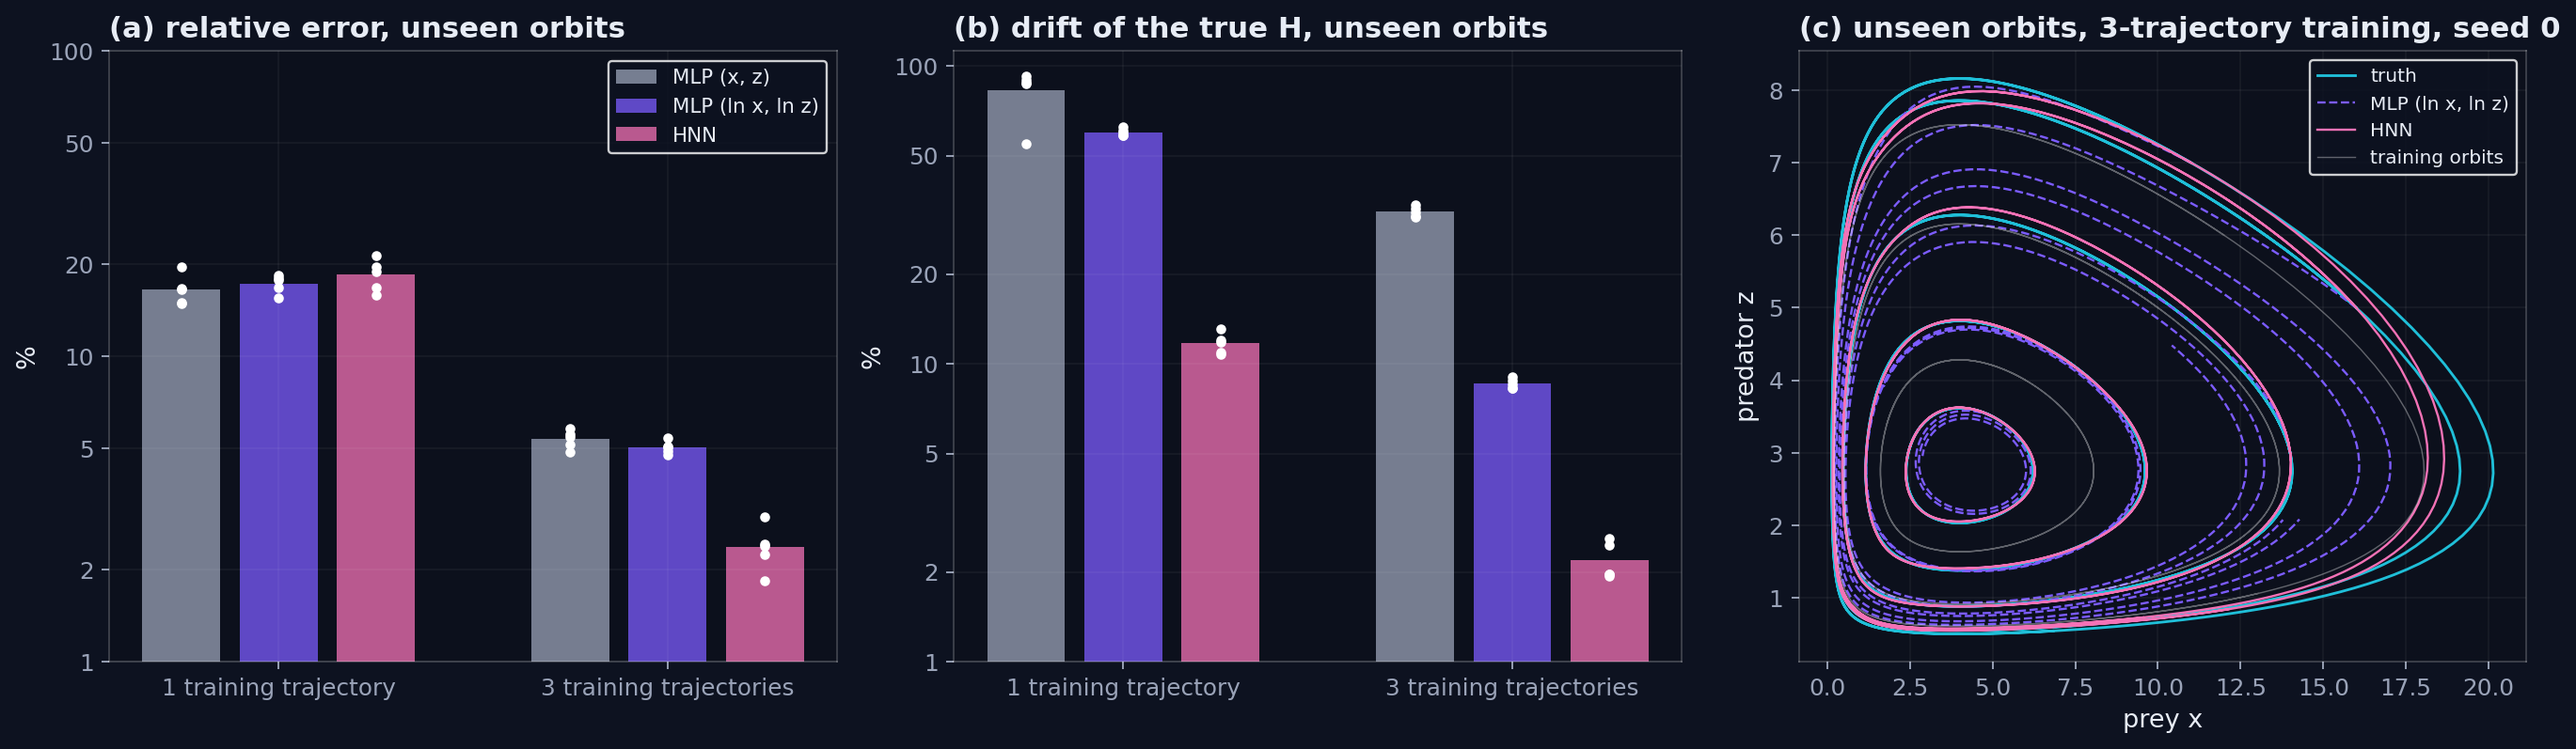
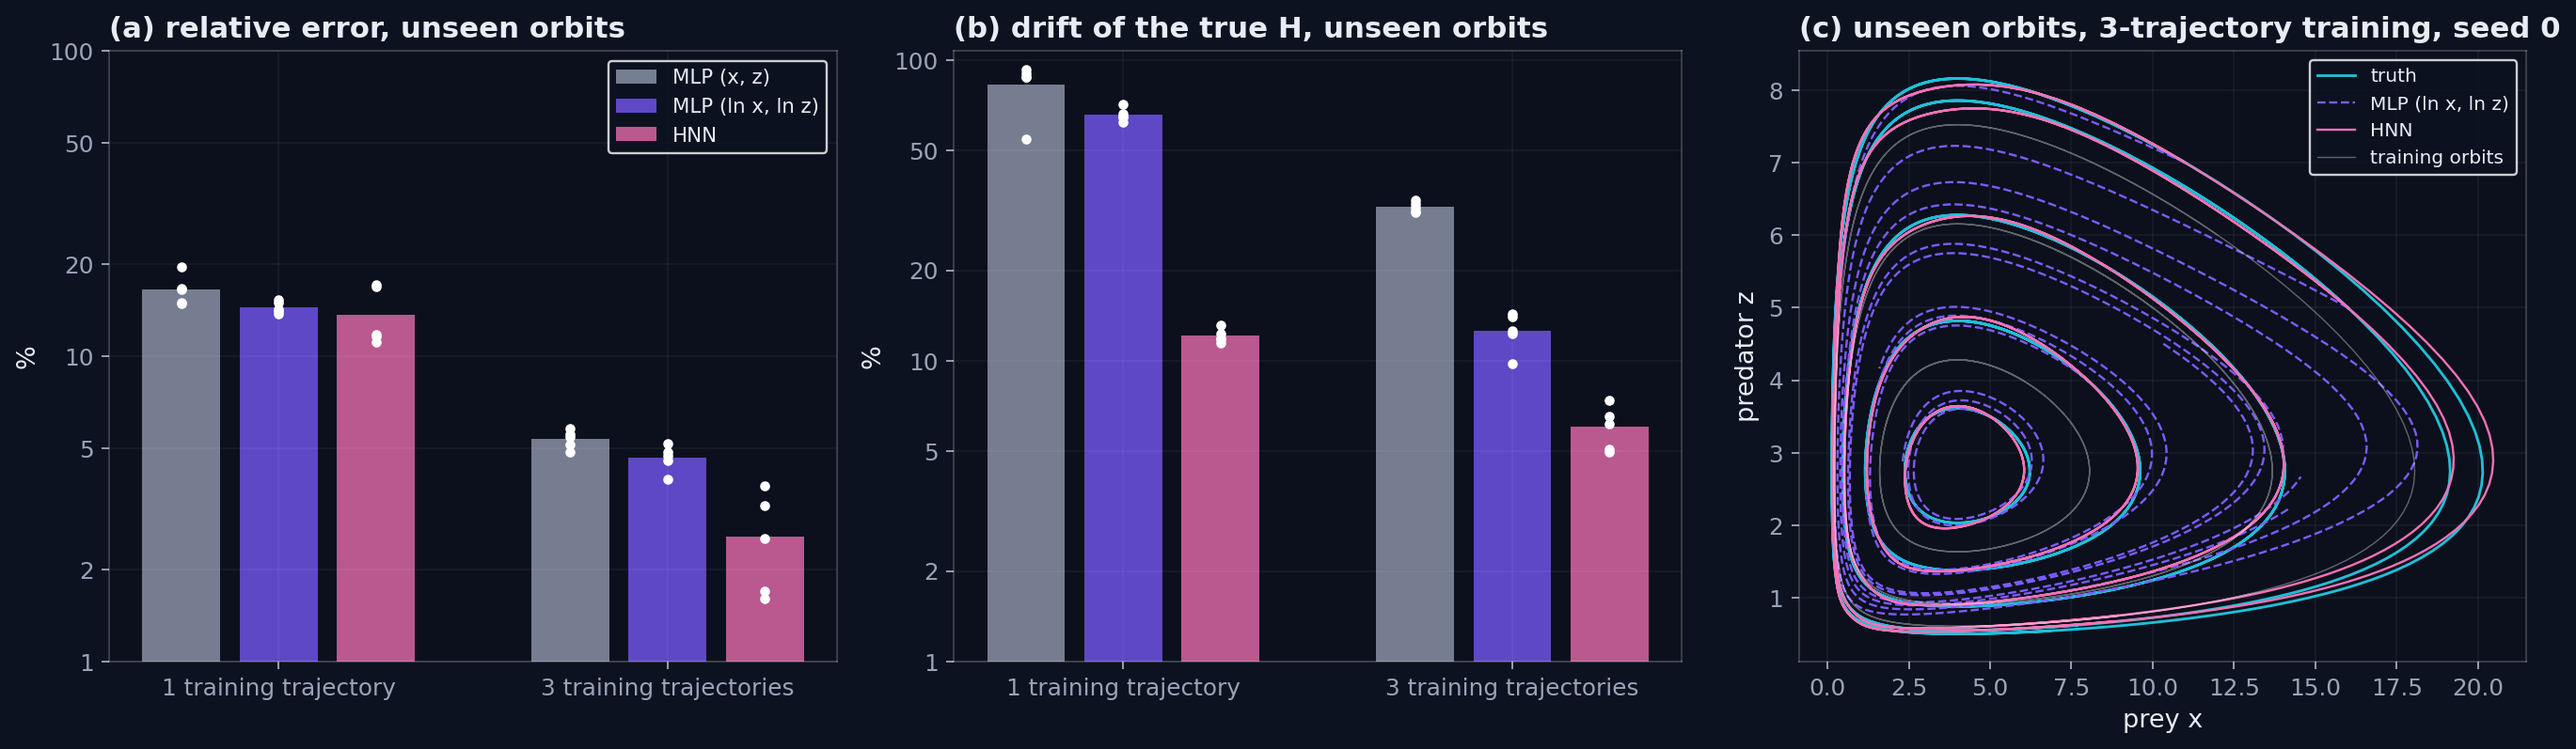
README 8.2: the main ablation uses the exact likelihood (loss in (x, z)) for all three models; HNN 2.57% / 6.03% vs log-coordinate MLP 4.65% / 12.6% on unseen orbits, every seed better (Mann-Whitney p = 0.008). The 2x2 (model x loss coordinates) shows the lower H drift on the training orbit comes mo

diff --git a/scripts/ablation_ic.py b/scripts/ablation_ic.py
@@ -65,7 +65,7 @@ Usage:
     python -m scripts.ablation_ic --model hnn --regime multi --seed 0
     python -m scripts.ablation_ic --model hnn --regime multi --seed 0 --y0-prior
     python -m scripts.ablation_ic --summarize        # aggregate all runs
-    python -m scripts.ablation_ic --figure           # figures/hnn_ablation_ic.png
+    python -m scripts.ablation_ic --figure           # figures/hnn_ablation_ic.png, loss in (x, z)
 """
 
 from __future__ import annotations
@@ -265,18 +265,33 @@ def summarize(out: str = "data/ablation_ic_summary.json", src: Path = OUT) -> No
     print(f"[ok] {out}")
 
 
-def figure(summary_path: str = "data/ablation_ic_summary.json",
-           out: str = "figures/hnn_ablation_ic.png", seed: int = 0) -> None:
+def _run_key(model: str, regime: str, loss: str) -> str:
+    """Summary key of a model trained with its residuals in ``loss`` coordinates."""
+    key = f"{model}|{regime}"
+    return key if loss == default_loss(model) else f"{key}|{loss}-loss"
+
+
+def _checkpoint(model: str, regime: str, loss: str, seed: int) -> Path:
+    if loss == default_loss(model):
+        return OUT / f"{model}_{regime}_s{seed}.pt"
+    return OUT_LOSS / f"{model}_{regime}_{loss}loss_s{seed}.pt"
+
+
+def figure(loss: str = "xz", out: str = "figures/hnn_ablation_ic.png", seed: int = 0) -> None:
     """(a) relative error and (b) H drift on the held-out orbits, every seed
     as a dot over the mean bar; (c) the held-out orbits predicted by the HNN
-    and by the log-coordinate MLP trained on three trajectories (one seed)."""
+    and by the log-coordinate MLP trained on three trajectories (one seed).
+    Every model with its residuals in ``loss`` coordinates: ``xz`` (default)
+    is the exact likelihood of the simulated noise."""
     import matplotlib.pyplot as plt
 
     from src.plots import _save, _style
 
     _style()
 
-    S = json.load(open(summary_path))["results"]
+    S = json.load(open("data/ablation_ic_summary.json"))["results"]
+    if Path("data/ablation_ic_loss_summary.json").exists():
+        S.update(json.load(open("data/ablation_ic_loss_summary.json"))["results"])
     models = [("mlp", "MLP (x, z)"), ("mlp_log", "MLP (ln x, ln z)"), ("hnn", "HNN")]
     colors = {"mlp": "#9aa3b8", "mlp_log": "#7c5cff", "hnn": "#f472b6"}
     fig, axes = plt.subplots(1, 3, figsize=(16, 4.8))
@@ -284,7 +299,7 @@ def figure(summary_path: str = "data/ablation_ic_summary.json",
                               (axes[1], "test_h_drift", "(b) drift of the true H, unseen orbits")]:
         for gi, regime in enumerate(["single", "multi"]):
             for mi, (m, label) in enumerate(models):
-                a = S[f"{m}|{regime}"][metric]
+                a = S[_run_key(m, regime, loss)][metric]
                 x = gi * 4 + mi
                 ax.bar(x, 100 * a["mean"], color=colors[m], alpha=0.75,
                        label=label if gi == 0 else None)
@@ -308,7 +323,7 @@ def figure(summary_path: str = "data/ablation_ic_summary.json",
                 label="truth" if k == 0 else None)
     for m, style in [("mlp_log", "--"), ("hnn", "-")]:
         func = HNN(2, 96, 3) if m == "hnn" else ODEFunc(2, 96, 3)
-        func.load_state_dict(torch.load(OUT / f"{m}_multi_s{seed}.pt"))
+        func.load_state_dict(torch.load(_checkpoint(m, "multi", loss, seed)))
         func.eval()
         for k, ic in enumerate(TEST_ICS):
             u = integrate(func, torch.tensor(np.log(ic), dtype=torch.float32), tt).detach().numpy()
@@ -348,7 +363,7 @@ if __name__ == "__main__":
             src, name = (OUT_PRIOR, "prior") if a.y0_prior else (OUT, None)
         summarize(f"data/ablation_ic_{name}_summary.json" if name else "data/ablation_ic_summary.json", src)
     elif a.figure:
-        figure()
+        figure(a.loss or "xz")
     else:
         for s in a.seed:
             train_one(a.model, a.regime, s, a.epochs, a.y0_prior, a.loss)

diff --git a/README.md b/README.md
@@ -5,7 +5,7 @@
 [![Portfolio page](https://img.shields.io/badge/Portfolio-page-7C3AED?style=flat-square)](https://crozol.github.io/projects/02-neural-odes.html)
 [![Live demo on Hugging Face Spaces](https://img.shields.io/badge/%F0%9F%A4%97%20Live%20demo-Hugging%20Face%20Space-FFD21E?style=flat-square)](https://huggingface.co/spaces/crozol/neural-odes-hnn-demo)
 
-**TL;DR** — Learning the right-hand side of pendulum and Lotka-Volterra dynamics from short noisy trajectories with a small MLP integrated by `torchdiffeq.odeint`. Relative extrapolation errors past the training window (mean ± std over 5 seeds) are **8.3 ± 2.4 %** (pendulum) and **0.96 ± 0.57 %** (Lotka-Volterra) for the unconstrained baseline; for Lotka-Volterra, a Hamiltonian Neural Network helps once the training data cover more than one orbit: trained on three trajectories and scored on five unseen ones, it reaches **2.4 % ± 0.4 %** relative error and **2.2 %** drift in the conserved `H`, against **5.0 %** and **8.6 %** for the same MLP in the same log-coordinates (5 seeds) — the control that removes the coordinate confounder of the naive comparison — with the HNN better on both metrics in 5 of 5 seeds (sign test `p = 1/32 ≈ 0.03`). Trained on a single trajectory, no model generalises to new orbits (17–18 %), and the HNN's lower `H` drift on that orbit comes mostly from the change to log-coordinates. Stack: PyTorch · torchdiffeq · NumPy.
+**TL;DR** — Learning the right-hand side of pendulum and Lotka-Volterra dynamics from short noisy trajectories with a small MLP integrated by `torchdiffeq.odeint`. Relative extrapolation errors past the training window (mean ± std over 5 seeds) are **8.3 ± 2.4 %** (pendulum) and **0.96 ± 0.57 %** (Lotka-Volterra) for the unconstrained baseline; for Lotka-Volterra, a Hamiltonian Neural Network helps once the training data cover more than one orbit: trained on three trajectories, with the loss measured where the noise is added so that it is the exact likelihood, and scored on five unseen orbits, it reaches **2.6 % ± 0.9 %** relative error and **6.0 %** drift in the conserved `H`, against **4.7 %** and **12.6 %** for the same MLP in the same log-coordinates (5 seeds), with every HNN seed better than every MLP seed on both metrics (Mann-Whitney, two-sided `p = 0.008`). Trained on a single trajectory, no model generalises to new orbits (14–17 %). On that orbit the log-coordinates make the fit track it, but the lower `H` drift comes mostly from measuring the loss in log-coordinates, which over-weights the bottom of the orbit where `H` is most sensitive, not from the Hamiltonian structure. Stack: PyTorch · torchdiffeq · NumPy.
 
 A numerical experiment: take two textbook ODE systems whose ground-truth
 vector field is known exactly, observe a short noisy trajectory of each, and
@@ -499,10 +499,9 @@ learned the vector field or one closed curve.
 `scripts/ablation_ic.py` addresses all three. It trains three models with the
 same width, depth, schedule and optimiser —
 
-- **MLP (x, z)**: the baseline, loss in `(x, z)`;
-- **MLP (ln x, ln z)**: the same MLP trained in log-coordinates with the
-  HNN's loss, a control that separates the coordinate change from the
-  Hamiltonian structure;
+- **MLP (x, z)**: the baseline;
+- **MLP (ln x, ln z)**: the same MLP in log-coordinates, a control that
+  separates the coordinate change from the Hamiltonian structure;
 - **HNN**, in log-coordinates —
 
 in two regimes: on **one** trajectory, from `(10, 5)` as before, or on
@@ -512,7 +511,17 @@ network, instead of being fixed to the first noisy observation. Every model
 is then integrated from the exact initial conditions of **five orbits it
 never saw** — two inside the range of `H` spanned by the three training
 orbits, one below it (closer to the fixed point `(4, 2.75)`) and two above it
-— over `t ∈ [0, 22]`. Five seeds per configuration, 30 runs in total.
+— over `t ∈ [0, 22]`. Five seeds per configuration.
+
+For all three models the loss is measured in `(x, z)`, where the noise is
+added (`σ = 0.03` on each coordinate): a log-coordinate prediction is mapped
+back with `exp`, and the mean squared residual is then the exact Gaussian
+negative log-likelihood of the observations, up to constants. Section 8.1
+measured the loss in log-coordinates instead, which divides each residual's
+noise by `x` and so weights it by `1/x²` against the likelihood — up to
+`7 500×` more at the bottom of a training orbit than at its top. A second
+set of runs (`--loss`) crosses the coordinates of the model with the
+coordinates of the loss, to separate the two (Result 1).
 
 The `H` drift is now normalised by the height of each orbit above the fixed
 point, `std(H) / (H(y₀) − H_min)`, because several test orbits have `H`
@@ -521,65 +530,92 @@ close to zero and the earlier ratio `std(H)/⟨H⟩` would blow up there.
 | Training | Model | Unseen orbits: rel. error | Unseen orbits: `H` drift | Training orbit: rel. error | Training orbit: `H` drift |
 |---|---|---|---|---|---|
 | 1 trajectory | MLP (x, z) | 16.6 % ± 1.9 % | 82.7 % ± 15.7 % | 1.73 % ± 0.39 % | 6.45 % ± 1.51 % |
-| 1 trajectory | MLP (ln x, ln z) | 17.3 % ± 1.2 % | 60.1 % ± 1.6 % | **0.43 % ± 0.14 %** | **2.14 % ± 0.30 %** |
-| 1 trajectory | HNN | 18.5 % ± 2.2 % | **11.7 % ± 0.9 %** | 3.06 % ± 1.12 % | 2.36 % ± 0.29 % |
+| 1 trajectory | MLP (ln x, ln z) | 14.5 % ± 0.7 % | 65.9 % ± 3.5 % | **0.42 % ± 0.03 %** | 5.12 % ± 0.54 % |
+| 1 trajectory | HNN | 13.7 % ± 3.0 % | **12.1 % ± 0.7 %** | 0.71 % ± 0.33 % | **4.72 % ± 0.84 %** |
 | 3 trajectories | MLP (x, z) | 5.35 % ± 0.37 % | 32.5 % ± 1.3 % | 3.72 % ± 0.56 % | 12.8 % ± 1.4 % |
-| 3 trajectories | MLP (ln x, ln z) | 5.03 % ± 0.23 % | 8.60 % ± 0.33 % | 3.37 % ± 0.28 % | 5.51 % ± 0.15 % |
-| 3 trajectories | HNN | **2.38 % ± 0.41 %** | **2.18 % ± 0.32 %** | 0.99 % ± 0.35 % | 1.52 % ± 0.18 % |
+| 3 trajectories | MLP (ln x, ln z) | 4.65 % ± 0.45 % | 12.6 % ± 1.8 % | 2.06 % ± 0.47 % | 8.19 % ± 0.68 % |
+| 3 trajectories | HNN | **2.57 % ± 0.94 %** | **6.03 % ± 1.01 %** | 0.63 % ± 0.10 % | 3.31 % ± 0.41 % |
 
-Mean ± standard deviation over 5 seeds; the unseen-orbit columns average the
-five test orbits. "Training orbit" is the orbit from `(10, 5)`, integrated over
-`t ∈ [0, 22]`, i.e. the training window plus its extrapolation.
+Mean ± standard deviation over 5 seeds, loss in `(x, z)`; the unseen-orbit
+columns average the five test orbits. "Training orbit" is the orbit from
+`(10, 5)`, integrated over `t ∈ [0, 22]`, i.e. the training window plus its
+extrapolation.
 
 ![Ablation on unseen orbits](figures/hnn_ablation_ic.png)
 
+The same models with the loss measured in either coordinate system:
+
+| Model | Loss in | 3 trajectories · unseen: rel. error | 3 trajectories · unseen: `H` drift | 1 trajectory · training orbit: rel. error | 1 trajectory · training orbit: `H` drift |
+|---|---|---|---|---|---|
+| MLP (x, z) | `(x, z)` = likelihood | 5.35 % ± 0.37 % | 32.5 % ± 1.3 % | 1.73 % ± 0.39 % | 6.45 % ± 1.51 % |
+| MLP (x, z) | `(ln x, ln z)` | 6.77 % ± 0.26 % | 23.6 % ± 4.5 % | 1.68 % ± 0.34 % | 3.66 % ± 0.39 % |
+| MLP (ln x, ln z) | `(x, z)` = likelihood | 4.65 % ± 0.45 % | 12.6 % ± 1.8 % | 0.42 % ± 0.03 % | 5.12 % ± 0.54 % |
+| MLP (ln x, ln z) | `(ln x, ln z)` | 5.03 % ± 0.23 % | 8.60 % ± 0.33 % | 0.43 % ± 0.14 % | 2.14 % ± 0.30 % |
+| HNN | `(x, z)` = likelihood | 2.57 % ± 0.94 % | 6.03 % ± 1.01 % | 0.71 % ± 0.33 % | 4.72 % ± 0.84 % |
+| HNN | `(ln x, ln z)` | 2.38 % ± 0.41 % | 2.18 % ± 0.32 % | 3.06 % ± 1.12 % | 2.36 % ± 0.29 % |
+
 Three results follow.
 
-1. **On the training orbit, the coordinates do most of the work.** With one
-   trajectory, the MLP in log-coordinates conserves `H` as well as the HNN
-   (2.14 % vs 2.36 %) and tracks the orbit more closely (0.43 % vs 3.06 %).
-   The drop in `H` drift of Section 8.1 came mostly from the change to
-   `(ln x, ln z)`, not from the Hamiltonian structure.
+1. **On the training orbit, the coordinates make the fit track the orbit;
+   the loss does most of the conserving.** With one trajectory, moving the
+   MLP to log-coordinates cuts its error on the training orbit from 1.7 % to
+   0.4 % with either loss. Its `H` drift falls mostly with the loss instead:
+   measuring the residuals in log-coordinates lowers it from 6.5 % to 3.7 %
+   for the MLP in `(x, z)` and from 5.1 % to 2.1 % for the MLP in
+   `(ln x, ln z)`, while the change of coordinates under the exact
+   likelihood lowers it only from 6.5 % to 5.1 %. The HNN follows the same
+   pattern (4.7 % with the likelihood, 2.4 % with the loss in
+   log-coordinates). The reason is in `H = d x − c ln x + b z − a ln z`: its
+   logarithmic terms make it most sensitive where the populations are small,
+   the region a loss in log-coordinates over-weights (by up to 7 500× on the
+   training orbits, against the likelihood). The drop in `H` drift of
+   Section 8.1 came mostly from the loss, not from the Hamiltonian
+   structure.
 2. **One trajectory does not determine the vector field.** Trained on a
-   single orbit, all three models miss unseen orbits by 17–18 %, the HNN
-   included. The HNN's predicted orbits still close (`H` drift 11.7 % against
-   60–83 %), but they are the wrong orbits: a conserved `H_θ` that is
+   single orbit, all three models miss unseen orbits by 14–17 %, the HNN
+   included. The HNN's predicted orbits still close (`H` drift 12.1 % against
+   66–83 %), but they are the wrong orbits: a conserved `H_θ` that is
    accurate along one curve need not be accurate anywhere else.
 3. **With three trajectories, the prior pays off.** On unseen orbits the
-   HNN's error is less than half that of the log-coordinate MLP
-   (2.38 % ± 0.41 % against 5.03 % ± 0.23 %) and its `H` drift is four times
-   smaller (2.18 % against 8.60 %), with every seed better than every MLP
-   seed on both metrics. The comparison is paired: the five test orbits are
-   the same for every seed, and the HNN beats the log-coordinate MLP of the
-   same seed on both metrics in 5 of 5 seeds (sign test `p = 1/32 ≈ 0.03`
-   per metric, the smallest five seeds can give). Per orbit, its `H` drift is
-   lower in all 25 seed–orbit pairs and its error in 22 of 25; the three
-   exceptions are on the orbits `(5, 3.5)`, below the training range, and
-   `(8, 4)`. Panel (c) shows why: the MLP's orbits spiral slowly
-   inward or outward, while the HNN's stay closed and lie close to the true
-   ones, including the two orbits above the training range.
+   HNN's error is 1.8 times lower than that of the log-coordinate MLP
+   (2.57 % ± 0.94 % against 4.65 % ± 0.45 %) and its `H` drift 2.1 times
+   lower (6.03 % against 12.6 %), with every seed better than every MLP seed
+   on both metrics (Mann-Whitney, two-sided `p = 0.008`, the smallest five
+   seeds against five can give). The comparison is paired: the five test
+   orbits are the same for every seed, and the HNN beats the
+   log-coordinate MLP of the same seed on both metrics in 5 of 5 seeds
+   (sign test, two-sided `p = 0.06`). Per orbit, its `H` drift is lower in
+   23 of 25 seed–orbit pairs and its error in 20 of 25; the exceptions are
+   on the orbit `(5, 3.5)`, below the training range (both drift
+   exceptions and three error ones), and on `(8, 4)`. Panel (c) shows why:
+   the MLP's orbits spiral slowly inward or outward, while the HNN's stay
+   closed and lie close to the true ones, including the two orbits above
+   the training range. With the loss in log-coordinates, as in Section 8.1,
+   the gap is wider (2.38 % and 2.18 % against 5.03 % and 8.60 %), with the
+   same separation.
 
 The learned initial states move away from the true ones: with three
-trajectories, by up to `0.27` in `(x, z)` for the MLP, `0.20` in
-log-coordinates for the log-coordinate MLP and `0.07` for the HNN. With the
+trajectories, by up to `0.27` in `(x, z)` for the MLP, and `0.09` in
+log-coordinates for the log-coordinate MLP and `0.03` for the HNN. With the
 initial state free, the network and the starting point trade off against
 each other; scoring from the exact initial conditions, as done here, keeps
-that trade-off out of the comparison. A Gaussian prior that ties each
-initial state to its first observation, with the observation noise as its
-width (`--y0-prior`; a weak constraint by construction, since it counts that
-observation a second time), barely moves them: they stay up to 17 noise
-units from the observation for the HNN and 38 for the log-coordinate MLP.
-The comparison does not change either: HNN `2.44% ± 0.96%` error and
-`2.20% ± 0.40%` drift, log-coordinate MLP `4.55% ± 0.31%` and
-`7.46% ± 0.62%`, with the HNN lower on all 5 seeds. The displacement is
-driven by the data, not by the missing prior: the starting point absorbs
-model error.
+that trade-off out of the comparison. Measured from the first observation,
+they move a median of 16 noise units for the log-coordinate MLP and 9 for
+the HNN. A Gaussian prior that ties each initial state to that observation,
+with the observation noise as its width (`--y0-prior`; with the loss in
+`(x, z)`, the exact MAP prior, though it counts that observation a second
+time), barely moves them (15 and 8 noise units), and the comparison does not
+change: HNN `1.98% ± 0.82%` error and `5.21% ± 1.12%` drift, log-coordinate
+MLP `4.22% ± 0.25%` and `11.1% ± 2.0%`, with every HNN seed better on both.
+Since the loss is the likelihood, the displacement is not an artefact of how
+the loss weighs `y0`: the starting point absorbs model error.
 
 ### 8.3 · What this rules out, and what it doesn't
 
 **Rules out.** That the Hamiltonian prior was the main reason for the lower
 `H` drift on the training orbit (Section 8.1): an MLP in the same coordinates
-does as well. And that a model fitted to one trajectory has learned the
+with the same loss does as well, and most of the drop comes from measuring
+the loss in log-coordinates. And that a model fitted to one trajectory has learned the
 dynamics: none of the three generalises to other orbits.
 
 **Supports.** That once the training data cover more than one orbit, the
@@ -637,7 +673,9 @@ fields per experiment:
 
 The controlled ablation of Section 8.2 (`scripts/ablation_ic.py`) writes one
 JSON per run to `data/ablation_ic/` and the aggregate to
-`data/ablation_ic_summary.json`. Its `rel_err` is `√MSE / max\|y\|` over
+`data/ablation_ic_summary.json`; runs whose loss is not in the model's own
+coordinates go to `data/ablation_ic_loss/` and
+`data/ablation_ic_loss_summary.json`. Its `rel_err` is `√MSE / max\|y\|` over
 `t ∈ [0, 22]` from the exact initial condition, and its `h_drift` is
 `std(H) / (H(y₀) − H_min)`, the drift relative to the height of the orbit
 above the fixed point.
@@ -685,10 +723,12 @@ python -m scripts.train_hnn_lotka
 python -m scripts.train_hnn_sho
 
 # controlled ablation of Section 8.2: 3 models x 2 regimes x 5 seeds
-# (~10-13 min per run on one CPU core; the 30 runs are independent)
+# (~10-13 min per run on one CPU core; the runs are independent)
 python -m scripts.ablation_ic --model hnn --regime multi --seed 0 1 2 3 4
+python -m scripts.ablation_ic --model hnn --regime multi --seed 0 1 2 3 4 --loss xz
 python -m scripts.ablation_ic --summarize
-python -m scripts.ablation_ic --figure
+python -m scripts.ablation_ic --summarize --loss xz
+python -m scripts.ablation_ic --figure            # loss in (x, z)
 
 # 5-seed sweep of the MLP baseline (used for the headline numbers in
 # sections 6 and 7). Takes ~2 h on a laptop CPU.
@@ -787,6 +827,8 @@ expressive than discretised RNNs.
     ├── lotka_hnn_arrays.npz
     ├── ablation_ic/              # one JSON + checkpoint per ablation run
     ├── ablation_ic_summary.json
+    ├── ablation_ic_loss/         # the same, loss in the other coordinates (--loss)
+    ├── ablation_ic_loss_summary.json
     └── sho_hnn_arrays.npz
 ```
 
